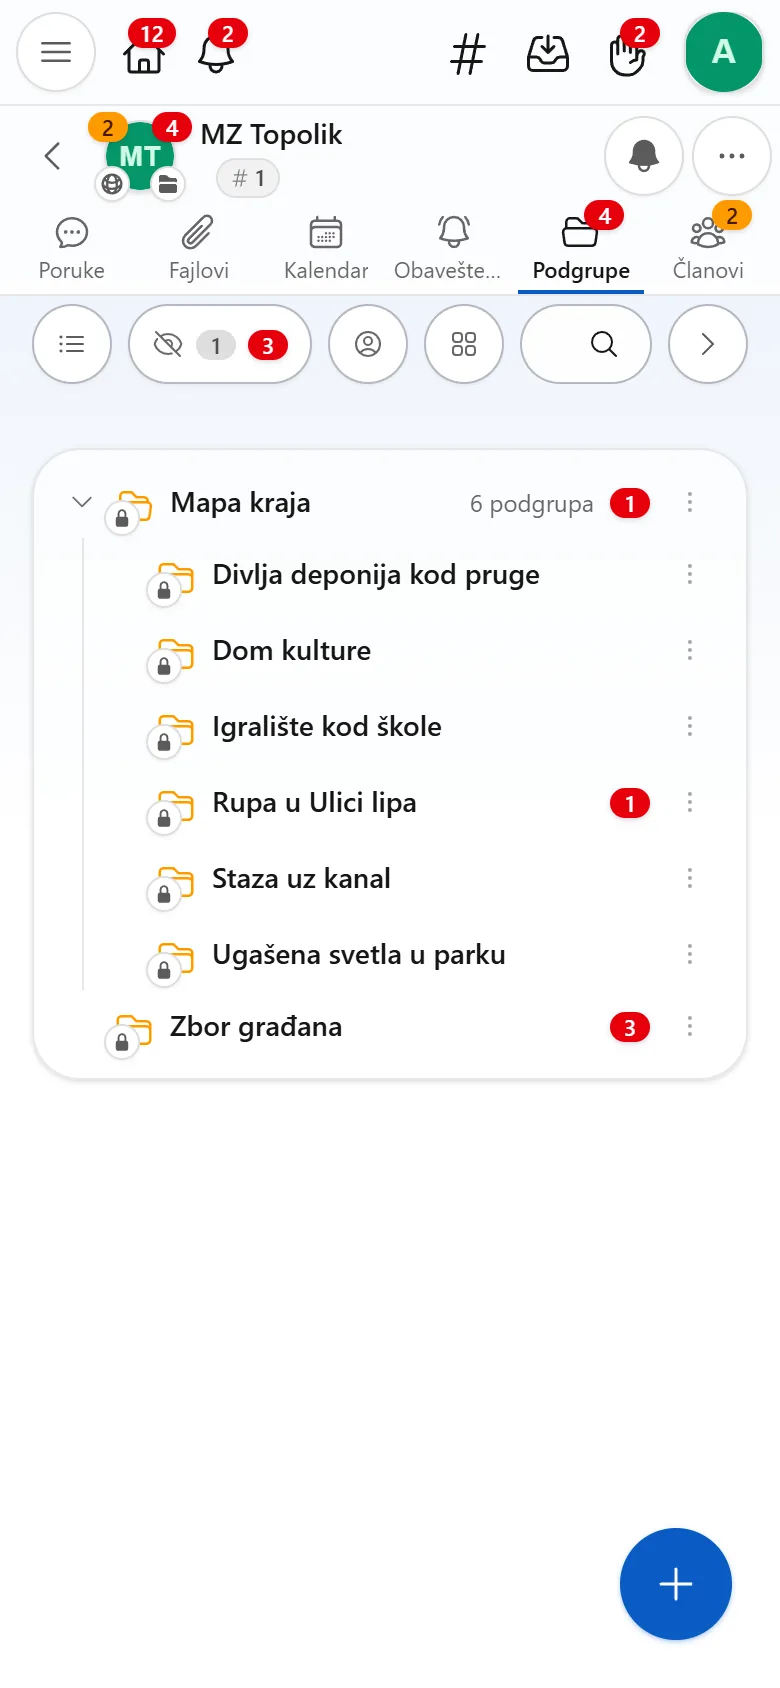
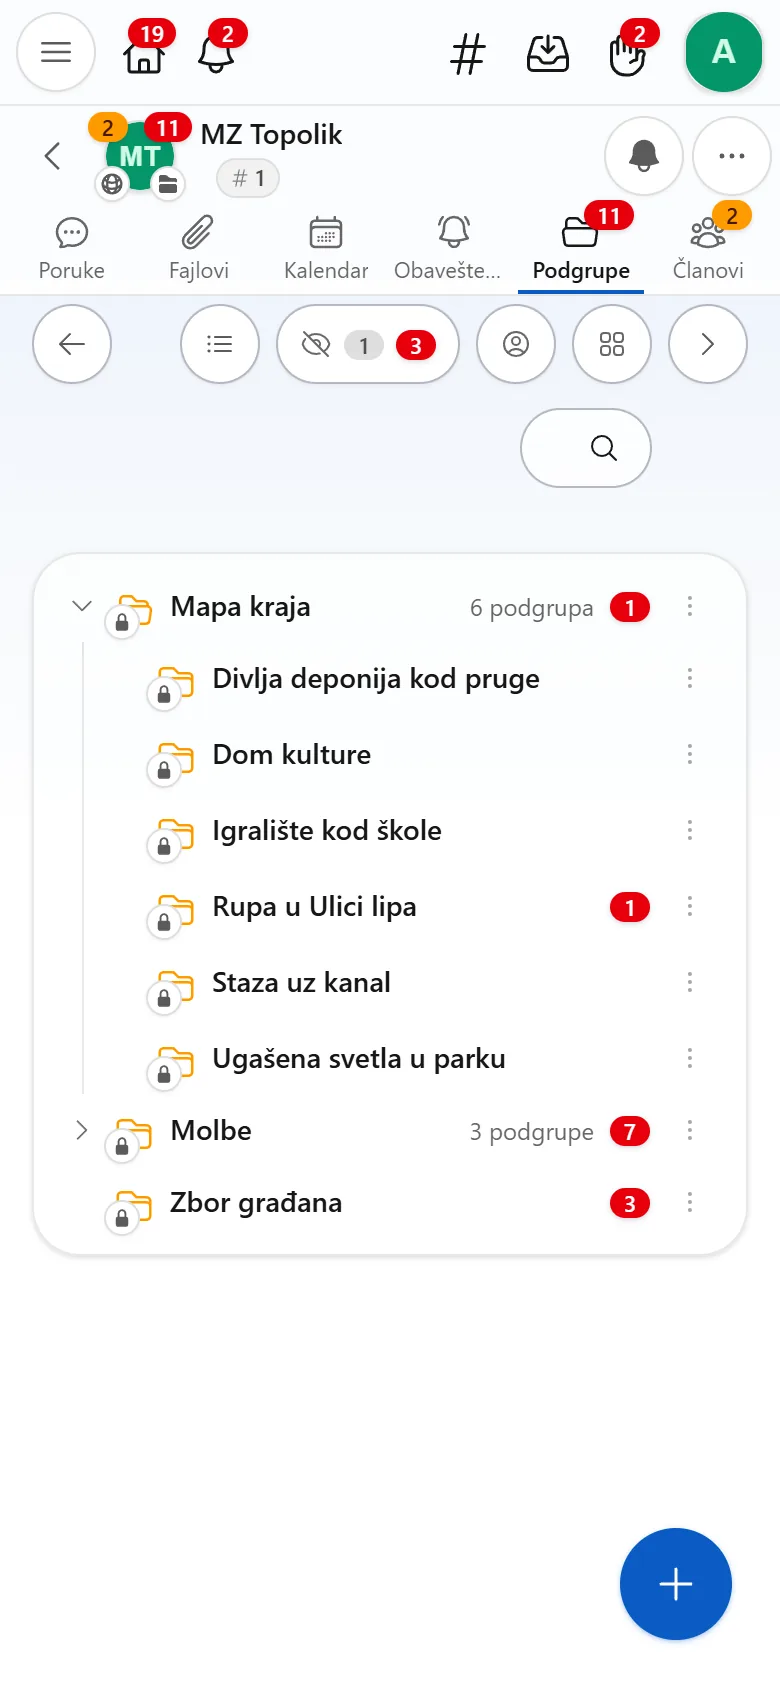
Lead from a group's sub-groups up to its parent's, in the same view
The Sub-groups tab of a group gets an arrow at its top left that opens the
sub-groups of the group above. The back arrow of the header goes through
the browser's history, and it and the path under the name open the parent
as a list, so the folder view was lost on every step up.

- The arrow opens /groups/<parent>/sub_groups, with view=tree from the
  folder view. A group right under the root leads to the root's groups,
  and so does one whose parent the profile cannot see, as with the back
  arrow. The root has none.
- It stands outside the filters, so a folded bar keeps it, and phones hide
  it while the search has the focus, like the other buttons.
- The bar of filters wraps: a phone has no room for a seventh button in a
  group with the threads switch, so the search takes a second row there
  (the kind filter too at 360 px) instead of pushing the bar off the
  screen.
- Components.group_identity_name/2 is public, for the arrow's label.

Help: a sentence under "The group page" in the three languages, and the
three pictures that show a group's sub-groups taken again. Landing and
domain map: not affected.

diff --git a/priv/static/HELP.sr_Cyrl.md b/priv/static/HELP.sr_Cyrl.md
@@ -162,6 +162,8 @@ Pravila (PotokIdeWeb.HelpMarkdown):
 
 Мени групе има опис групе, дељење линка јавне групе, тагове, обавештења, улоге, прављење подгрупе, позивање и уређивање групе. Шта од тога видиш, зависи од твојих дозвола.
 
+На картици Подгрупе, стрелица улево, горе лево, води један ниво изнад: отвара подгрупе групе у којој ова стоји, у истом приказу, као списак или као фасцикле.
+
 Опис групе може бити текст, страница из шаблона или апликација. Испод њега су реакције на групу и место групе на мапи.
 
 ![Мени групе](grupa-meni) ![Опис групе, реакције и подручје на мапи](o-grupi)

diff --git a/priv/static/HELP.en.md b/priv/static/HELP.en.md
@@ -156,6 +156,8 @@ At the top of a group are its name, the path to it and the tabs: Messages, Files
 
 The group's menu has the group's description, sharing a public group's link, tags, notices, roles, creating a sub-group, inviting and editing the group. Which of these you see depends on your permissions.
 
+On the Sub-groups tab, the left arrow at the top left goes one level up: it opens the sub-groups of the group this one sits in, in the same view, as a list or as folders.
+
 A group's description can be a text, a page from a template or an app. Under it are the reactions to the group and the group's place on the map.
 
 ![The group's menu](grupa-meni) ![A group's description, reactions and area on the map](o-grupi)

diff --git a/priv/static/HELP.sr.md b/priv/static/HELP.sr.md
@@ -162,6 +162,8 @@ Na vrhu grupe su njen naziv, putanja do nje i kartice: Poruke, Fajlovi, Kalendar
 
 Meni grupe ima opis grupe, deljenje linka javne grupe, tagove, obaveštenja, uloge, pravljenje podgrupe, pozivanje i uređivanje grupe. Šta od toga vidiš, zavisi od tvojih dozvola.
 
+Na kartici Podgrupe, strelica ulevo, gore levo, vodi jedan nivo iznad: otvara podgrupe grupe u kojoj ova stoji, u istom prikazu, kao spisak ili kao fascikle.
+
 Opis grupe može biti tekst, stranica iz šablona ili aplikacija. Ispod njega su reakcije na grupu i mesto grupe na mapi.
 
 ![Meni grupe](grupa-meni) ![Opis grupe, reakcije i područje na mapi](o-grupi)
